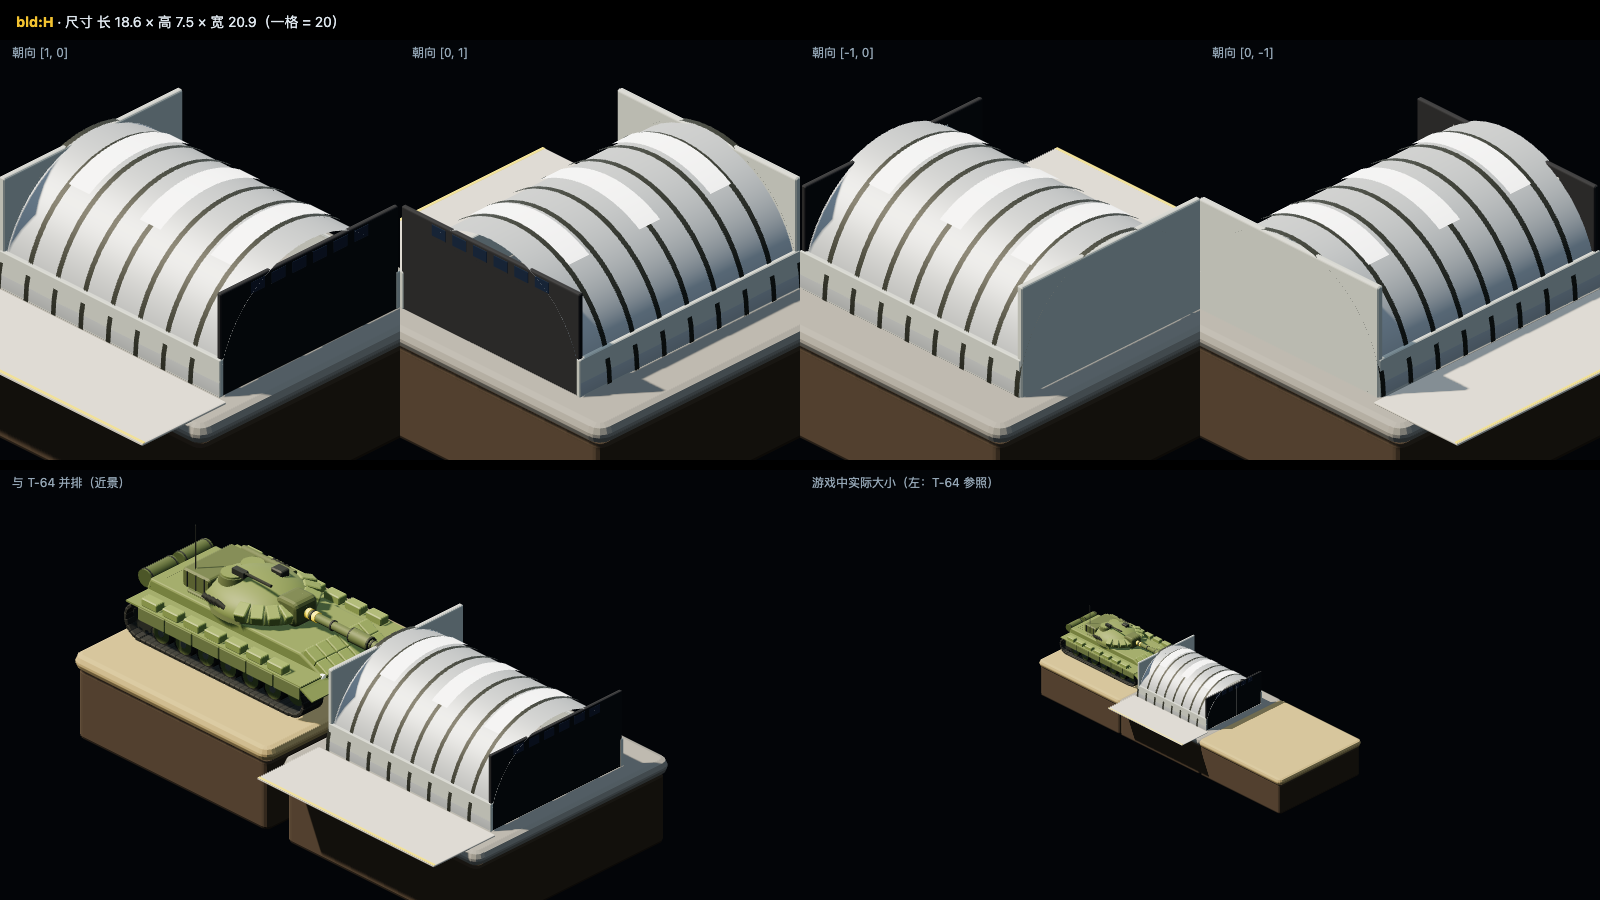
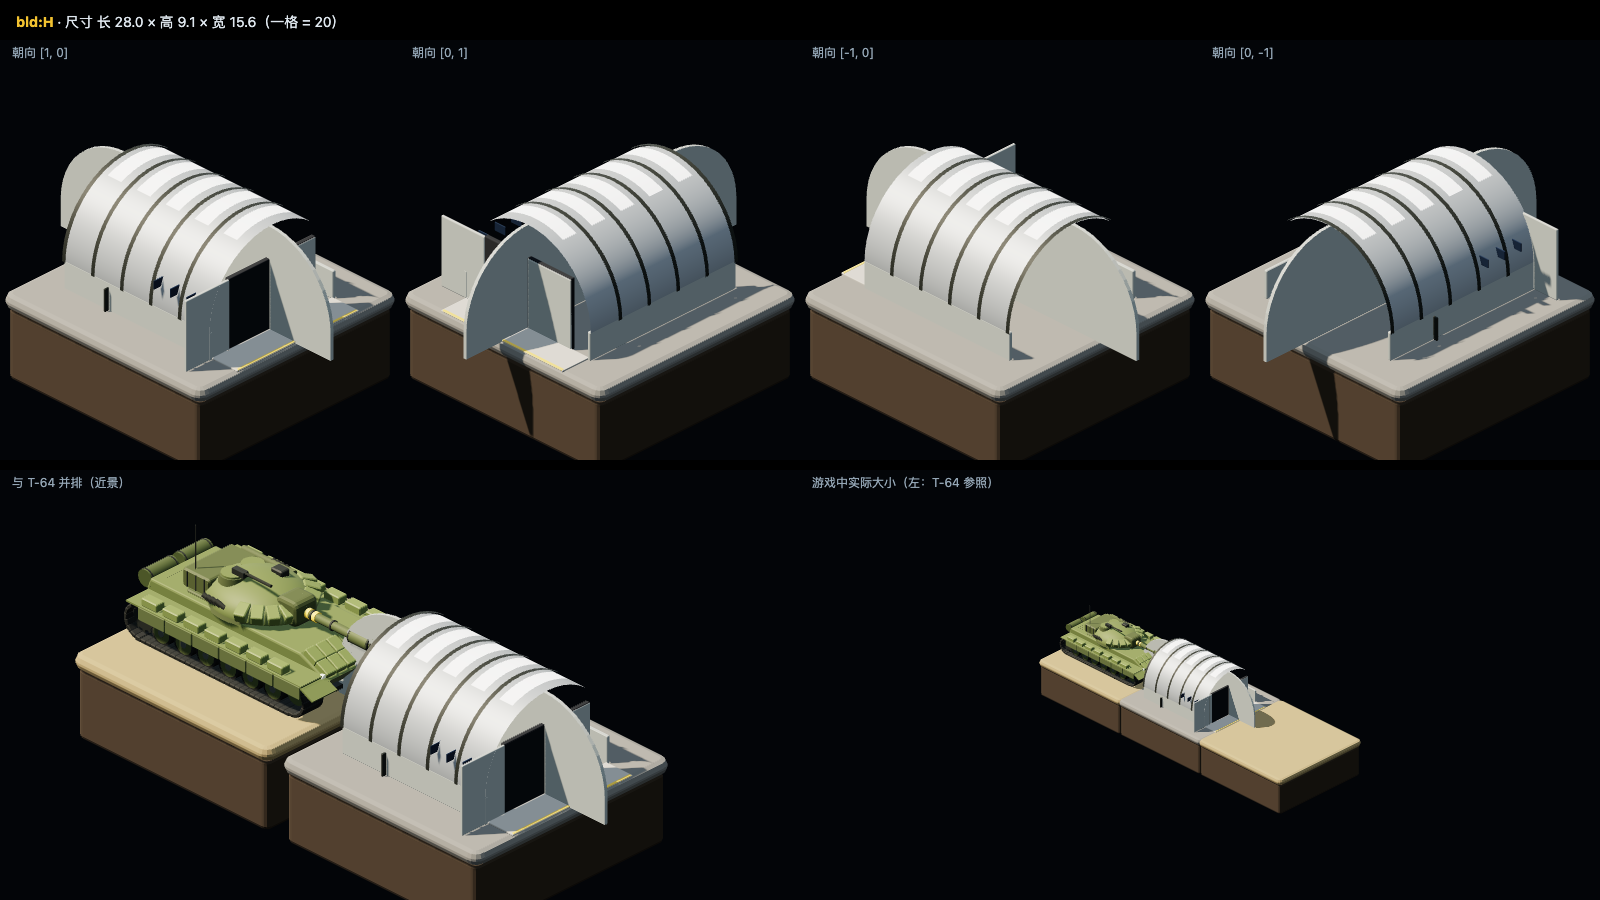
T-32: 第 2 轮修改（机库拱形山墙、推拉门、尺寸收回格内）

diff --git a/game/js/models3d.js b/game/js/models3d.js
@@ -1120,34 +1120,43 @@ function m3Hangar(seed, dmg) {
   const T = new THREE.Group();
   const ARCH = mat3('#9aa0a3', 0.5, 0.4), WALLH = mat3('#8f948f', 0.8), DKI = mat3('#1b1e22', 0.9), DKS = mat3('#2d302a', 0.6, 0.3), GLS = mat3('#223044', 0.1, 0.3);
   const SNOW = mat3('#eef2f4', 0.75), APRON = mat3('#9d9a92', 0.9), YEL = mat3('#c9a53a', 0.7);
-  const H = new THREE.Group(); H.position.set(0, 0, 0); T.add(H);
-  // half-cylinder arch roof built from lengthwise segments; ribs at every segment edge
-  const segW = 17 / 8;
-  for (let sgi = 0; sgi < 8; sgi++) {
-    const sx = -8.5 + segW * (sgi + 0.5);
-    if (dmg && (sgi === 2 || sgi === 5)) continue;
-    part(H, new THREE.CylinderGeometry(7.05, 7.05, segW * 1.002, 24, 1, true, 0, Math.PI), ARCH, sx, 0.1, 0, 0, 0, HALF_PI);
-    part(H, new THREE.CylinderGeometry(7.18, 7.18, 0.35, 24, 1, true, 0, Math.PI), DKS, -8.5 + segW * sgi + 0.05, 0.1, 0, 0, 0, HALF_PI);
+  // 1. gable walls shaped like the arch cross-section (absarc), extruded 0.3
+  const gShape = new THREE.Shape();
+  gShape.moveTo(-6.5, 0); gShape.lineTo(6.5, 0); gShape.absarc(0, 2.3, 6.5, 0, Math.PI, false); gShape.closePath();
+  const gGeo = new THREE.ExtrudeGeometry(gShape, { depth: 0.3, bevelEnabled: false });
+  part(T, gGeo, WALLH, 7.35, 0, 0);
+  part(T, gGeo, WALLH, -7.65, 0, 0);
+  // side walls below the spring line
+  for (const s of [-1, 1]) part(T, rbox(15, 2.3, 0.3, 0.05, 1), WALLH, 0, 1.15, s * 6.4);
+  // 2. arch roof from five lengthwise segments; two segments removed when damaged
+  const segL = 3.0;
+  for (let sgi = 0; sgi < 5; sgi++) {
+    const sx = -7.5 + segL * (sgi + 0.5);
+    if (dmg && (sgi === 1 || sgi === 3)) continue;
+    part(T, new THREE.CylinderGeometry(6.55, 6.55, segL * 1.002, 24, 1, true, 0, Math.PI), ARCH, sx, 2.3, 0, 0, 0, HALF_PI);
+    part(T, new THREE.CylinderGeometry(6.68, 6.68, 0.35, 24, 1, true, 0, Math.PI), DKS, -7.5 + segL * sgi + 0.05, 2.3, 0, 0, 0, HALF_PI);
+    if (!(dmg && (sgi === 1 || sgi === 3))) part(T, new THREE.CylinderGeometry(6.72, 6.72, 1.4, 20, 1, true, Math.PI * 0.36, Math.PI * 0.28), SNOW, sx, 2.3, 0, 0, 0, HALF_PI);
   }
-  // snow strips on the arch top
-  for (const sx of [-5.5, 0, 5.5]) part(H, new THREE.CylinderGeometry(7.22, 7.22, 1.6, 20, 1, true, Math.PI * 0.32, Math.PI * 0.36), SNOW, sx, 0.1, 0, 0, 0, HALF_PI);
-  // side walls, closed back wall, side door and a row of high windows
-  for (const s of [-1, 1]) part(H, rbox(17, 2.3, 0.3, 0.05, 1), WALLH, 0, 1.15, s * 6.85);
-  part(H, rbox(0.25, 7.0, 13.9, 0.08, 1), WALLH, -8.45, 3.4, 0);
-  part(H, rbox(0.1, 2.1, 0.9, 0.04, 1), DKS, -8.52, 1.05, 5.6);
-  for (let k = 0; k < 6; k++) part(H, rbox(0.06, 0.7, 1.1, 0.03, 1), GLS, 8.47, 5.9, -4 + k * 1.6);
-  // front: two sliding doors half open, dark interior visible
-  part(H, rbox(0.2, 6.4, 13.8, 0.06, 1), DKI, 8.35, 3.2, 0);
-  part(H, rbox(0.16, 5.9, 3.4, 0.05, 1), WALLH, 8.3, 2.95, -2.4);
-  part(H, rbox(0.16, 5.9, 3.4, 0.05, 1), WALLH, 8.3, 2.95, 2.5);
-  if (dmg) { const dr = part(H, rbox(0.14, 5.7, 3.2, 0.05, 1), WALLH, 8.25, 2.6, 3.9); dr.rotation.x = -0.85; dr.rotation.y = 0.5; }
-  // concrete apron with a yellow edge marking
-  part(H, rbox(18.5, 0.1, 6.5, 0.05, 1), APRON, 0, 0.05, 10.5);
-  part(H, rbox(18.5, 0.09, 0.22, 0.02, 1), YEL, 0, 0.09, 13.6);
-  if (dmg) for (const [px, pz] of [[3.2, 3.6], [5.4, 1.9]]) part(H, rbox(1.6, 0.24, 1.9, 0.05, 1), WALLH, px, 0.12, pz);
+  if (dmg) for (const [hx, hz] of [[-4.5, 3.2], [1.5, -3.2]]) {
+    const fl = part(T, rbox(0.12, 1.4, 2.6, 0.04, 1), ARCH, hx, 6.4, hz); fl.rotation.x = 0.5; fl.rotation.y = 0.4;
+    part(T, rbox(2.9, 1.6, 2.9, 0.1, 1), DKI, hx, 4.4, hz);
+  }
+  // 3. door opening in the front gable: 9 wide, 6 high, dark inside; two sliding panels
+  part(T, rbox(0.3, 6.0, 9.0, 0.05, 1), DKI, 7.3, 3.0, 0);
+  const stiffen = (panel, z0) => { for (let k = 0; k < 4; k++) part(panel, new THREE.BoxGeometry(0.08, 5.6, 0.14), DKS, 0, 0, z0 + k * 1.05 - 1.6); };
+  const P1 = new THREE.Group(); P1.position.set(7.42, 3.0, -2.25); T.add(P1);
+  part(P1, rbox(0.14, 5.9, 4.5, 0.05, 1), WALLH, 0, 0, 0); stiffen(P1, 0);
+  const P2 = new THREE.Group(); P2.position.set(7.42, 3.0, 6.7); T.add(P2);
+  part(P2, rbox(0.14, 5.9, 4.5, 0.05, 1), WALLH, 0, 0, 0); stiffen(P2, 0);
+  if (dmg) { P2.rotation.x = -0.9; P2.position.set(7.3, 2.6, 7.6); }
+  // small side door and three high windows on one side
+  part(T, rbox(0.1, 1.9, 1.0, 0.04, 1), DKS, -3.0, 0.95, 6.42);
+  for (let k = 0; k < 3; k++) part(T, rbox(0.06, 0.7, 1.1, 0.03, 1), GLS, 2.2 + k * 1.7, 4.4, 6.44);
+  // concrete apron, depth 2.6, yellow edge marking
+  part(T, rbox(2.7, 0.1, 12.6, 0.05, 1), APRON, 8.8, 0.05, 0);
+  part(T, rbox(0.2, 0.08, 12.4, 0.02, 1), YEL, 10.05, 0.09, 0);
   return T;
 }
-MODEL3D['bld:S'] = m3Substation;
 MODEL3D['bld:H'] = m3Hangar;
 
 // ---------- T-33 废墟 bld:rubble 与断桥 prop:bridge ----------

diff --git a/docs/tasks/T-32-精修变电站与机库.md b/docs/tasks/T-32-精修变电站与机库.md
@@ -86,6 +86,27 @@
 
 需审查方决定的问题：无。
 
+**第 2 轮（执行方：ZCode）**
+
+变电站未动（已通过）。机库按第 1 轮审查意见重做：
+1. **山墙改拱形**：`THREE.Shape` 底边直线 + `absarc(0, 2.3, 6.5, 0, π)` 半圆，`ExtrudeGeometry` 挤出 0.3 厚，前后各一；山墙外沿与拱顶齐平（半径 6.5，圆心 y 2.3）。
+2. **尺寸收回格内**：拱顶长 15（x ±7.5）、跨度 13（z ±6.5，含侧墙 13.5）；门前地坪进深 2.6（x 7.45..10.15）——整体含地坪在 18 × 18 以内。
+3. **推拉门**：前拱面开 9 宽 × 6 高的矩形门洞（洞内深色盒）；两扇门板各宽 4.5、高 5.9、带 4 根竖向加强条——一扇关在洞左半，另一扇拉开到洞右外的墙面上，与门洞错开；受损状态：拉开的门板歪倒（rotation.x -0.9 靠在墙边）。
+4. 受损态拱顶两个大洞：拱顶分 5 段，第 2、4 段移除，洞缘翘起铁皮 + 洞内黑色盒；积雪条只在没有洞的段上。
+5. 保留：侧墙、小侧门、三扇高窗、雪条、地坪黄线。
+
+自测：
+- `node tools/check.js`：✓ 语法（19 个文件）；✓ 范围（仅 models3d.js）。
+- `node tools/playtest.js /tmp/pt-T-32r2`：`ERRORS none`，退出码 0。
+- `node tools/shot3d.js /tmp/s3-T-32r2`：`SHOT3D OK`，退出码 0；`model-shot` bld:H 与 bld:H dmg：均 `MODEL OK`。
+- `bld_H.png`、`bld_H-dmg.png` 重拍并逐张目检：拱形山墙、推拉门一关一拉、受损态拱顶两洞 + 歪门清晰；整体含地坪在格内。
+
+过程中发现并修复：重写时漏定义局部材质 GLS（高窗），由 model-shot 定位补上。
+
+需审查方决定的问题：无。
+
+## 审查意见（审查方写）
+
 ## 审查意见（审查方写）
 
 ## 审查意见（审查方写）
